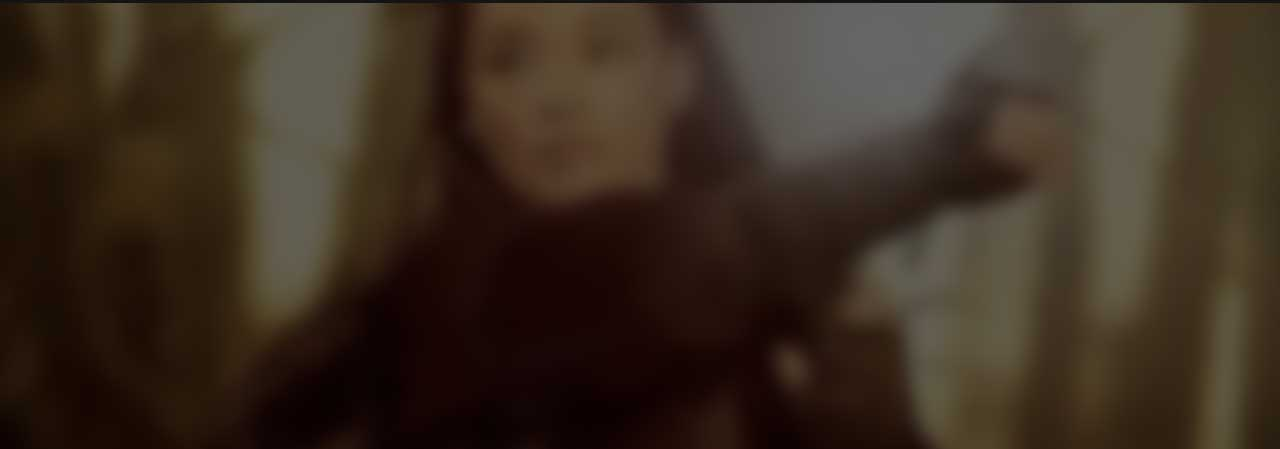
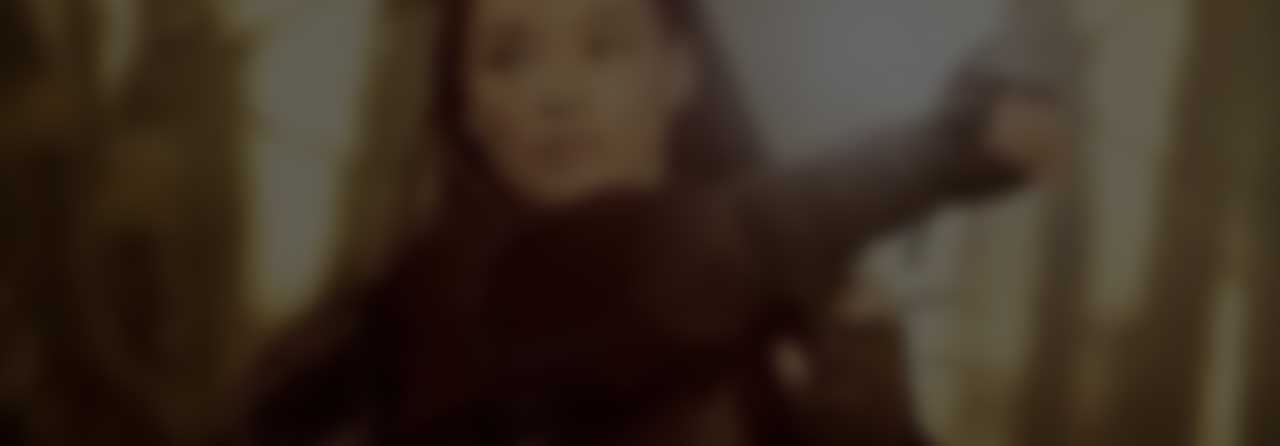
ajout hover palmares

Changed region(s): [[0.375, 0.0, 1.0, 0.0291], [0.0312, 0.0, 0.3438, 0.0291]]

diff --git a/_html/palmares_toutlepalmares.php b/_html/palmares_toutlepalmares.php
@@ -43,7 +43,7 @@
                 <h2 class="title">En compétitions</h2>
             </div>
             <h3 class="sub-cat-title">Longs métrages</h3>
-            <article style="background-image:url()">
+            <article style="background-image:url(img/palmares/hover-film-compet3.jpg)">
             <div class="bck-hover">
                <div class="contain_item">
                 <img src="img/palmares/cover-film-compet1.jpg" alt="images films">
@@ -58,7 +58,7 @@
                </div>
             </div>
             </article>
-            <article style="background-image:url()">
+            <article style="background-image:url(img/palmares/hover-film-compet3.jpg)">
             <div class="bck-hover">
                <div class="contain_item">
                 <img src="img/films/cover-film-cdo.jpg" alt="images films">
@@ -89,7 +89,7 @@
                </div>
             </div>
             </article>
-            <article style="background-image:url()">
+            <article style="background-image:url(img/palmares/hover-film-compet3.jpg)">
             <div class="bck-hover">
                <div class="contain_item">
                 <img src="img/palmares/cover-film-compet4.jpg" alt="images films">
@@ -110,7 +110,7 @@
         </section>
         <section class="categorie-items">
             <h3 class="sub-cat-title">Courts métrages</h3>
-            <article style="background-image:url()">
+            <article style="background-image:url(img/palmares/hover-film-compet3.jpg)">
             <div class="bck-hover">
                <div class="contain_item">
                 <img src="img/palmares/cover-film-compet5.jpg" alt="images films">
@@ -132,7 +132,7 @@
             <div class="title-list-cat">
                 <h2 class="title">En compétitions</h2>
             </div>
-            <article style="background-image:url()">
+            <article style="background-image:url(img/palmares/hover-film-compet3.jpg)">
             <div class="bck-hover">
                <div class="contain_item">
                 <img src="img/palmares/cover-film-uncertainregard1.jpg" alt="images films">

diff --git a/_html/palmares_competition.php b/_html/palmares_competition.php
@@ -41,7 +41,7 @@
             <div class="title-list-cat">
                 <h2 class="title">Long métrages</h2>
             </div>
-            <article style="background-image:url()">
+            <article style="background-image:url(img/palmares/hover-film-compet3.jpg)">
             <div class="bck-hover">
                <div class="contain_item">
                 <img src="img/palmares/cover-film-compet1.jpg" alt="images films">
@@ -56,7 +56,7 @@
                </div>
             </div>
             </article>
-            <article style="background-image:url()">
+            <article style="background-image:url(img/palmares/hover-film-compet3.jpg)">
             <div class="bck-hover">
                <div class="contain_item">
                 <img src="img/films/cover-film-cdo.jpg" alt="images films">
@@ -87,7 +87,7 @@
                </div>
             </div>
             </article>
-            <article style="background-image:url()">
+            <article style="background-image:url(img/palmares/hover-film-compet3.jpg)">
             <div class="bck-hover">
                <div class="contain_item">
                 <img src="img/palmares/cover-film-compet4.jpg" alt="images films">
@@ -110,7 +110,7 @@
             <div class="title-list-cat">
                 <h2 class="title">Court métrages</h2>
             </div>
-            <article style="background-image:url()">
+            <article style="background-image:url(img/palmares/hover-film-compet3.jpg)">
             <div class="bck-hover">
                <div class="contain_item">
                 <img src="img/palmares/cover-film-compet5.jpg" alt="images films">

diff --git a/_html/palmares_cinefondation.php b/_html/palmares_cinefondation.php
@@ -38,7 +38,7 @@
       </div>
       <div class="container container-list">
         <section class="categorie-items">
-            <article style="background-image:url()">
+            <article style="background-image:url(img/palmares/hover-film-cinefondation3.jpg)">
             <div class="bck-hover">
                <div class="contain_item">
                 <img src="img/palmares/cover-film-cinefondation1.jpg" alt="images films">
@@ -53,7 +53,7 @@
                </div>
             </div>
             </article>
-            <article style="background-image:url()">
+            <article style="background-image:url(img/palmares/hover-film-cinefondation3.jpg)">
             <div class="bck-hover">
                <div class="contain_item">
                 <img src="img/palmares/cover-film-cinefondation2.jpg" alt="images films">

diff --git a/_html/palmares_uncertainregard.php b/_html/palmares_uncertainregard.php
@@ -38,7 +38,7 @@
       </div>
       <div class="container container-list">
         <section class="categorie-items">
-            <article style="background-image:url()">
+            <article style="background-image:url(img/palmares/hover-film-uncertainregard3.jpg)">
             <div class="bck-hover">
                <div class="contain_item">
                 <img src="img/palmares/cover-film-uncertainregard1.jpg" alt="images films">

diff --git a/_html/palmares_camerador.php b/_html/palmares_camerador.php
@@ -38,7 +38,7 @@
       </div>
       <div class="container container-list">
         <section class="categorie-items">
-            <article style="background-image:url()">
+            <article style="background-image:url(img/palmares/hover-film-cinefondation3.jpg)">
             <div class="bck-hover">
                <div class="contain_item">
                 <img src="img/palmares/cover-film-camerador.jpg" alt="images films">
